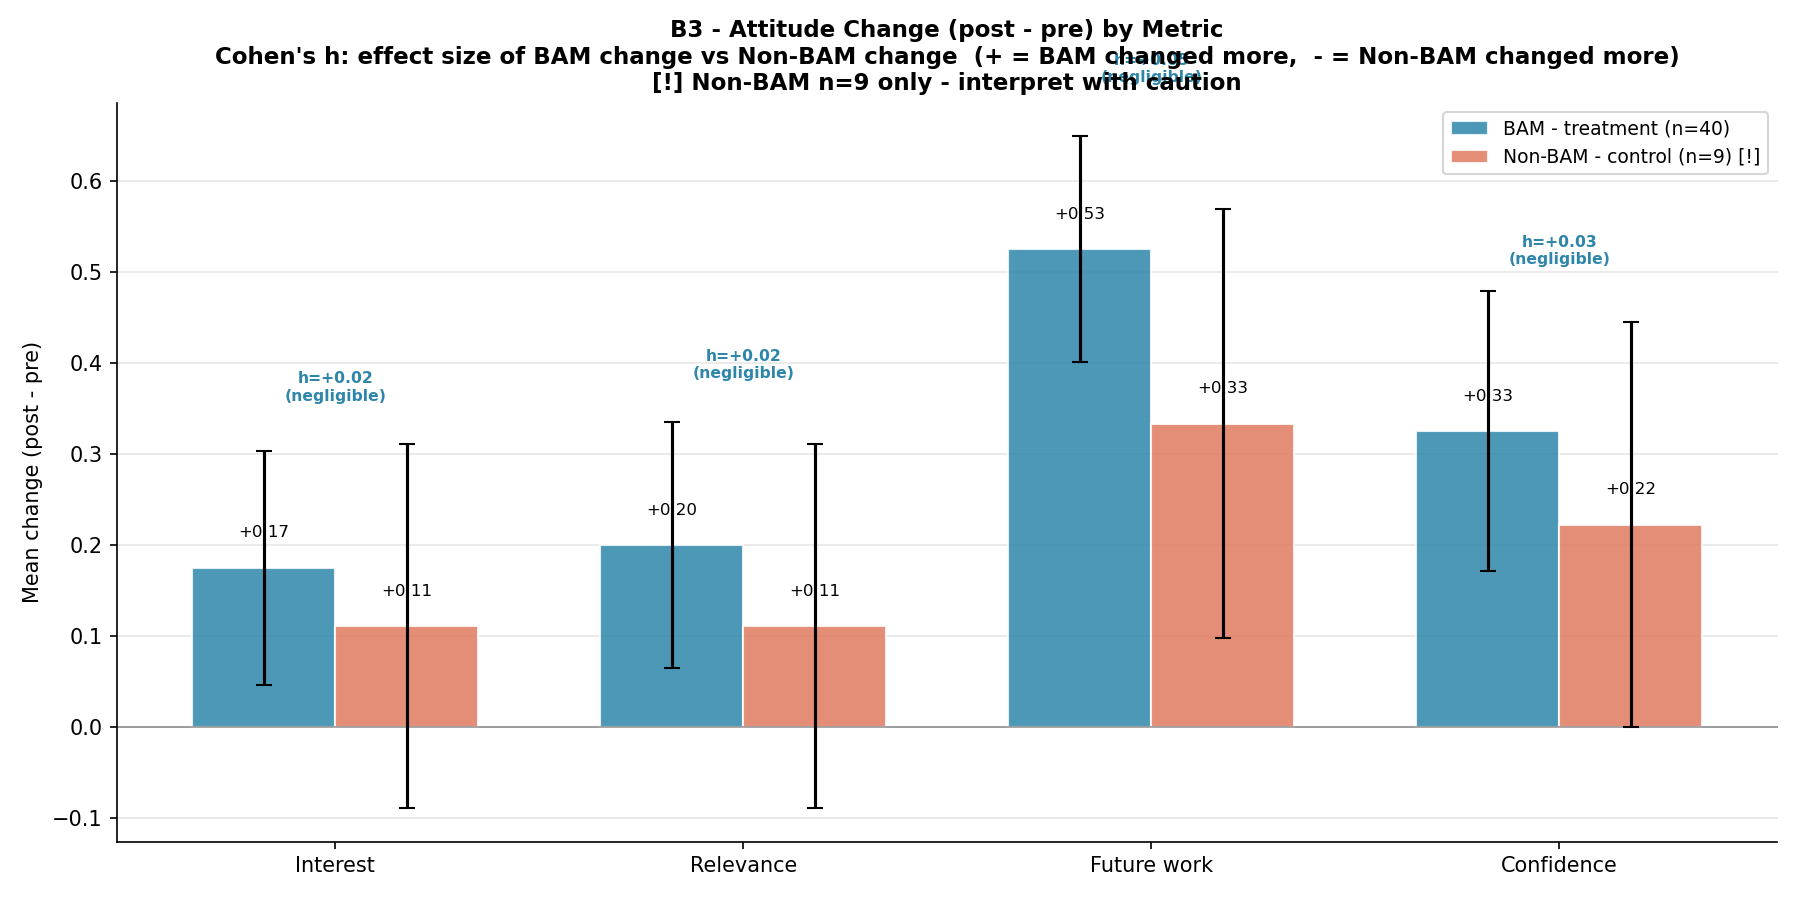
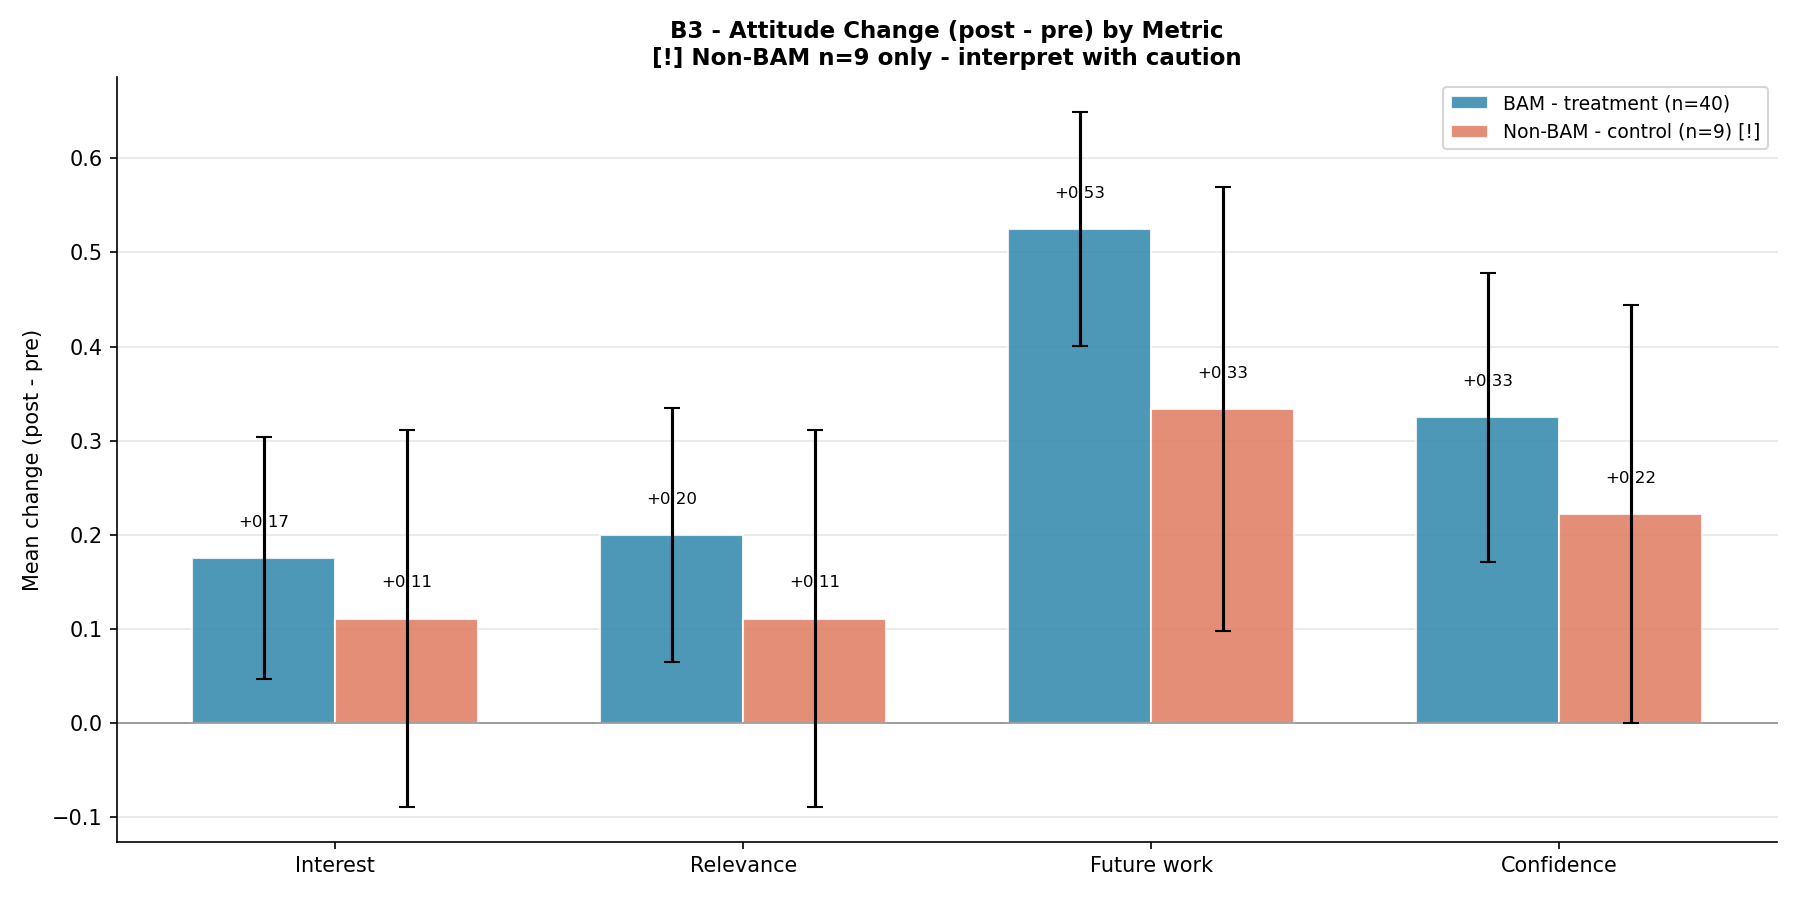
change detail on B3 Q2

diff --git a/src/q2_learning.py b/src/q2_learning.py
@@ -391,23 +391,12 @@ def plot_B3_change(bam, non_bam):
             ax.text(bar.get_x() + bar.get_width()/2, ypos,
                     f"{v:+.2f}", ha="center", va="bottom", fontsize=8)
 
-    # Cohen's h per metric on delta values
-    for i, (vb, vn) in enumerate(zip(vals_b, vals_n)):
-        h   = _cohen_h_delta(vb, vn)
-        top = max(vb, vn, 0) + 0.18
-        col = C_BAM if h > 0 else C_NONBAM
-        ax.text(i, top, f"h={h:+.2f}\n({_h_label(h)})",
-                ha="center", va="bottom", fontsize=7.5,
-                color=col, fontweight="bold")
-
     ax.axhline(0, color="black", lw=0.9, ls="-", alpha=0.35)
     ax.set_xticks(x)
     ax.set_xticklabels(M_LABELS, fontsize=10)
     ax.set_ylabel("Mean change (post - pre)", fontsize=10)
     ax.set_title(
         "B3 - Attitude Change (post - pre) by Metric\n"
-        "Cohen's h: effect size of BAM change vs Non-BAM change  "
-        "(+ = BAM changed more,  - = Non-BAM changed more)\n"
         "[!] Non-BAM n=9 only - interpret with caution",
         fontsize=11, fontweight="bold",
     )